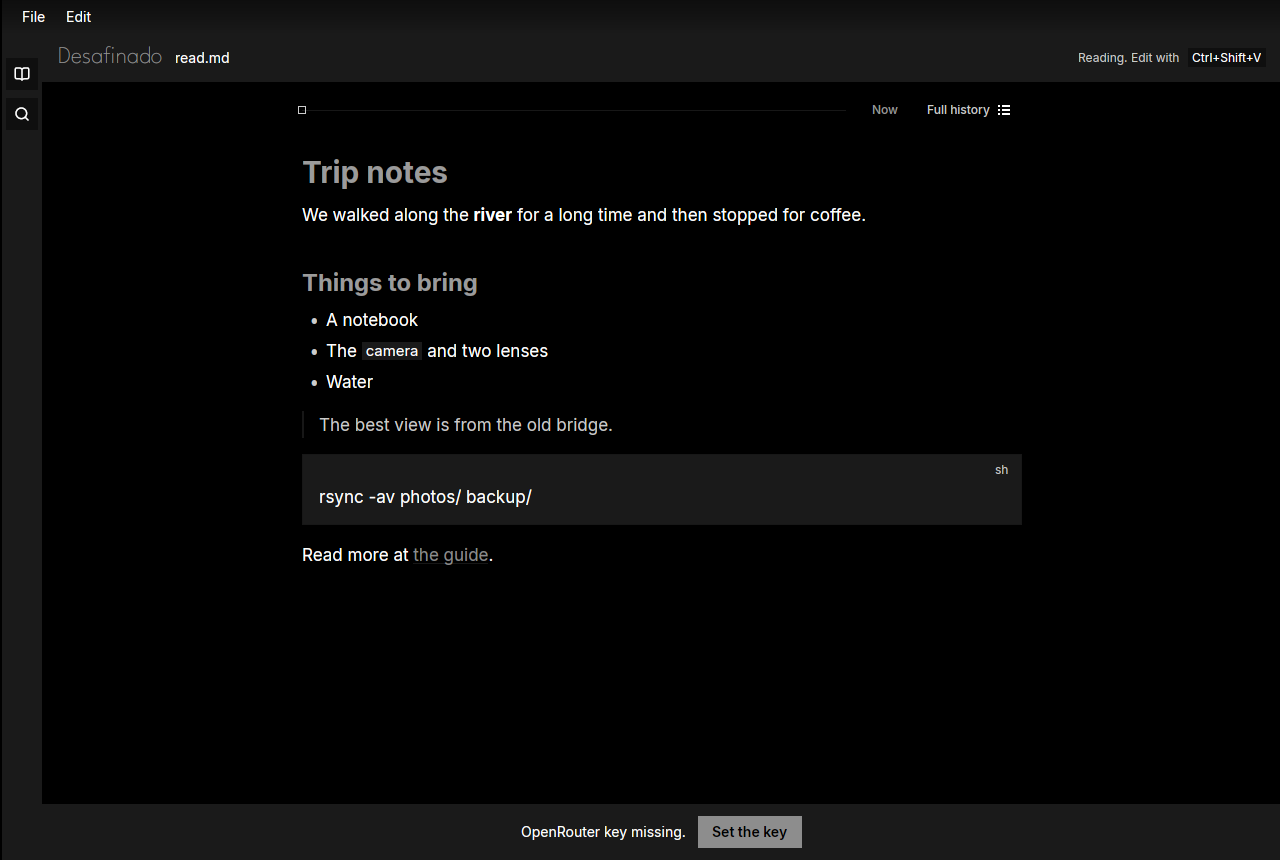
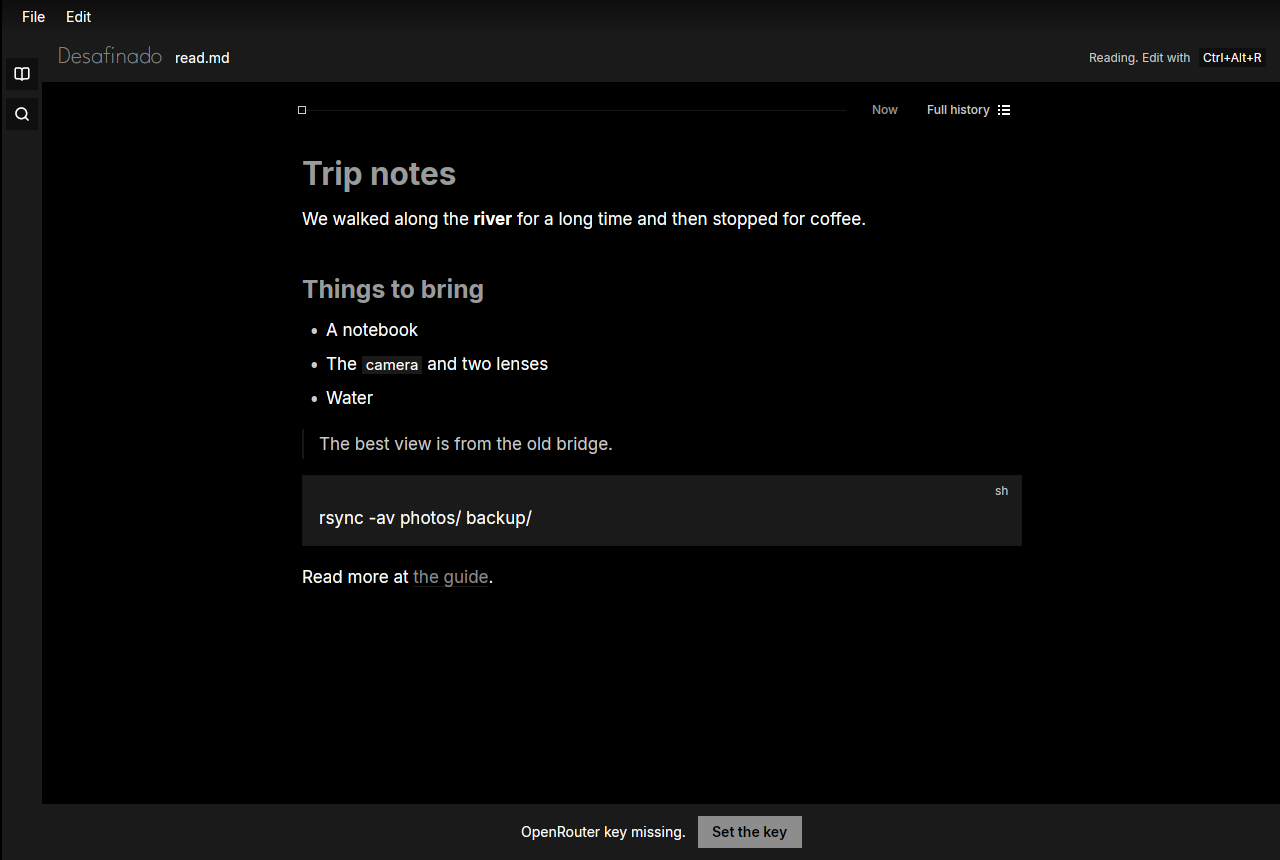
fix: Ctrl+Alt+R for Reading view, leave it on Review, Electron's line height

Changed region(s): [[0.2188, 0.3023, 0.8125, 0.6953], [0.2188, 0.1814, 0.6875, 0.2721], [0.8438, 0.0605, 1.0, 0.0907]]

diff --git a/crates/app/src/workspace.rs b/crates/app/src/workspace.rs
@@ -136,7 +136,7 @@ pub fn init(cx: &mut App) {
         KeyBinding::new("ctrl-,", OpenPreferences, None),
         KeyBinding::new("ctrl-b", ToggleLibrary, None),
         KeyBinding::new("ctrl-p", SearchLibrary, None),
-        KeyBinding::new("ctrl-shift-v", ToggleReading, None),
+        KeyBinding::new("ctrl-alt-r", ToggleReading, None),
         KeyBinding::new("escape", CloseMenu, Some("Menu")),
         KeyBinding::new("down", MenuDown, Some("Menu")),
         KeyBinding::new("up", MenuUp, Some("Menu")),
@@ -2135,7 +2135,7 @@ impl Workspace {
                         } else {
                             "Reading view"
                         },
-                        Some("Ctrl+Shift+V"),
+                        Some("Ctrl+Alt+R"),
                         Box::new(ToggleReading),
                         false,
                     )
@@ -2268,6 +2268,7 @@ impl Workspace {
 
     fn open_review(&mut self, _: &StartReview, window: &mut Window, cx: &mut Context<Self>) {
         self.open_menu = None;
+        self.reading = false;
         if self.pane.read(cx).review.is_some() {
             return;
         }
@@ -2965,11 +2966,11 @@ impl Workspace {
     }
 
     fn reading_toggle_allowed(&self, window: &Window, cx: &App) -> bool {
-        let editor = self.pane.read(cx).editor.read(cx).focus_handle(cx);
-        window.focused(cx).is_none()
-            || self.focus.is_focused(window)
-            || self.menu_focus.is_focused(window)
-            || editor.is_focused(window)
+        !self.library.read(cx).search_focused(window, cx)
+            && !self
+                .frontmatter
+                .focus_handle(cx)
+                .contains_focused(window, cx)
     }
 
     fn toggle_reading(&mut self, _: &ToggleReading, window: &mut Window, cx: &mut Context<Self>) {
@@ -3128,11 +3129,7 @@ impl Workspace {
                         "Select text and press"
                     })
                     .child(ui::kbd(
-                        if self.reading {
-                            "Ctrl+Shift+V"
-                        } else {
-                            "Ctrl+K"
-                        },
+                        if self.reading { "Ctrl+Alt+R" } else { "Ctrl+K" },
                         roles,
                     )),
             )

diff --git a/crates/app/src/library_panel.rs b/crates/app/src/library_panel.rs
@@ -151,6 +151,10 @@ fn dom_key(keystroke: &Keystroke) -> Option<String> {
 }
 
 impl LibraryPanel {
+    pub fn search_focused(&self, window: &Window, cx: &App) -> bool {
+        self.search.read(cx).focus_handle(cx).is_focused(window)
+    }
+
     pub fn new(user_data: PathBuf, window: &mut Window, cx: &mut Context<Self>) -> Self {
         let search = cx.new(|cx| InputState::new(window, cx).placeholder("Search · Ctrl+P"));
         let search_events =

diff --git a/crates/app/src/reading_view.rs b/crates/app/src/reading_view.rs
@@ -18,7 +18,7 @@ pub fn render_reading(text: &str, roles: Roles) -> AnyElement {
             div()
                 .type_ui()
                 .type_document()
-                .line_height(relative(1.6))
+                .line_height(relative(1.75))
                 .text_color(roles.ink)
                 .child(
                     TextView::markdown("reading-text", body_after_frontmatter(text).to_string())

diff --git a/docs/PARITY.md b/docs/PARITY.md
@@ -12,7 +12,7 @@ Every feature of `desafinado`'s Electron build (as of `b269c9c`, 2026-11-14) and
 
 ## Editor and Suggestions
 - [x] Raw Markdown with light styling, Inter, 48rem column, headings bold (headings keep the body size and fenced or inline code stays in Inter, since the GPUI editor has one font size and family per buffer: ADR 0001)
-- [x] Reading view (`Ctrl+Shift+V`, Edit → Reading view / Edit text, last in Edit): the Document rendered, without the frontmatter; links show their target on hover and never open (gpui-base `TextView`, so the rendered headings scale with the Document while the editor's do not; task checkboxes are drawn by `TextView` and are not interactive; selectable text; anything that needs the editor, such as Review, Accept all or a toast's Show and Retry, leaves Reading view first, and so does opening History, Evals or AI spend; the shortcut does nothing while a text field other than the editor has focus)
+- [x] Reading view (`Ctrl+Alt+R`, Edit → Reading view / Edit text, last in Edit): the Document rendered, without the frontmatter; links show their target on hover and never open (gpui-base `TextView`, so the rendered headings scale with the Document while the editor's do not; task checkboxes are drawn by `TextView` and are not interactive; selectable text; anything that needs the editor, such as Review, Accept all or a toast's Show and Retry, leaves Reading view first, and so does opening History, Evals or AI spend; the shortcut does nothing while the Library search or a frontmatter field has focus)
 - [x] Bubble (`Ctrl+K`): Quick actions by typing, `↑` `↓` `Enter`, "Ask AI: …" free text (also shows on its own over a mouse or keyboard selection and hides while the pointer is down, as in Electron; `Esc` closes it and keeps it closed for that selection; it appears without the fade and scale motion)
 - [x] Target: selection or the Block under the cursor; Neighbors and title/section as context (the Target is previewed with the selection fill while the bubble is open)
 - [x] Suggestion overlay: deleted text struck through, Replacement in the AI color, Changes counted, Rationale (GPUI has no inline block widgets, so the Replacement shows in the Card, in the right margin when the window is wide enough and floating under the range otherwise, ADR 0001; the range is struck through and tinted in place; no shimmer or word-by-word reveal)

diff --git a/README.md b/README.md
@@ -17,7 +17,7 @@ The AI proposes; your voice wins. Every change it suggests sits in your text as 
 - Accept is a normal edit, so `Ctrl+Z` undoes it.
 - **Edit → Review…** reads the whole document, optionally with a focus such as "tone only", and streams up to six suggestions, with Accept all and Reject all.
 
-**Read it rendered.** `Ctrl+Shift+V` (or **Edit → Reading view**) swaps the editor for the rendered Markdown: real heading sizes, lists, quotes, code blocks and links, without the frontmatter. Press it again to edit.
+**Read it rendered.** `Ctrl+Alt+R` (or **Edit → Reading view**) swaps the editor for the rendered Markdown: real heading sizes, lists, quotes, code blocks and links, without the frontmatter. Press it again to edit.
 
 **Keep the history.** The timeline under the header keeps a version after each accept, open, restore, save and pause in your typing, marked by who made it. Compare any version with the current text and restore it. Each document keeps its own history, with no cap, in a SQLite database in the settings folder.
 
